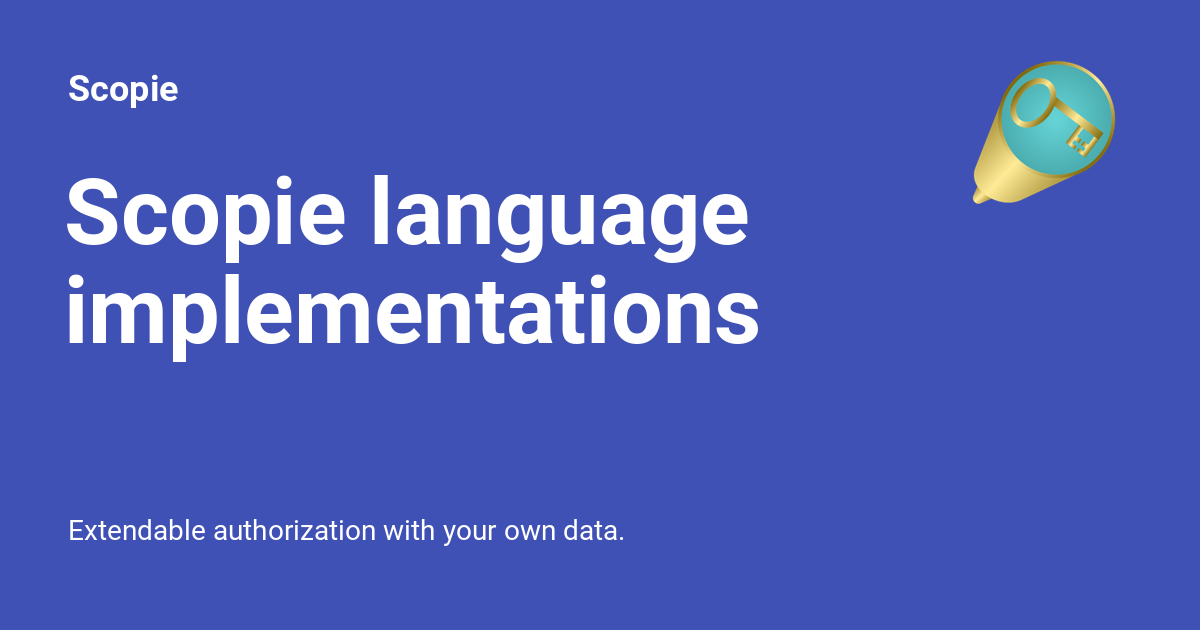
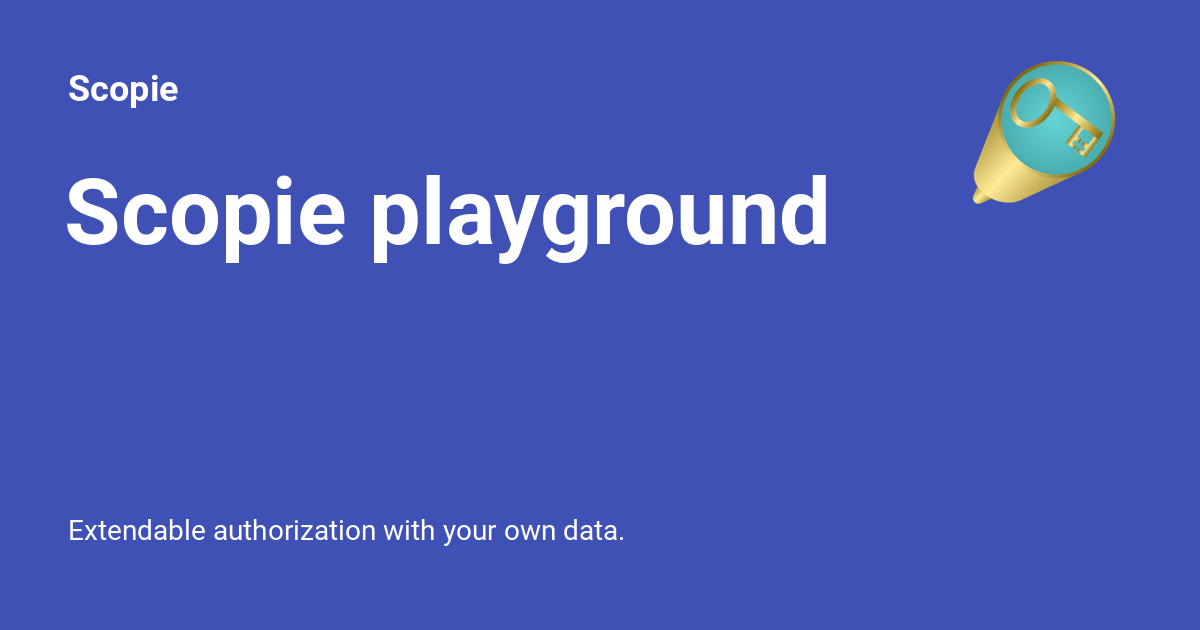
deploy: d7f61a4c39833dae15412884ce5f9bbb6dc2ca31

Changed region(s): [[0.0308, 0.4222, 0.6475, 0.573], [0.3083, 0.2714, 0.7092, 0.4222]]

diff --git a/specification/functions/index.html b/specification/functions/index.html
@@ -572,9 +572,9 @@
 </li>
       
         <li class="md-nav__item">
-  <a href="#validate-scope" class="md-nav__link">
+  <a href="#validate-scopes" class="md-nav__link">
     <span class="md-ellipsis">
-      Validate Scope
+      Validate Scopes
     </span>
   </a>
   
@@ -824,9 +824,9 @@
 </li>
       
         <li class="md-nav__item">
-  <a href="#validate-scope" class="md-nav__link">
+  <a href="#validate-scopes" class="md-nav__link">
     <span class="md-ellipsis">
-      Validate Scope
+      Validate Scopes
     </span>
   </a>
   
@@ -873,14 +873,14 @@ Depending on the language, we would also return an error, throw or raise an exce
 </span><span id="__span-0-13"><a id="__codelineno-0-13" name="__codelineno-0-13" href="#__codelineno-0-13"></a>    <span class="n">variables</span> <span class="nb">dict</span><span class="p">[</span><span class="n">string</span><span class="p">,</span> <span class="n">string</span><span class="p">],</span>
 </span><span id="__span-0-14"><a id="__codelineno-0-14" name="__codelineno-0-14" href="#__codelineno-0-14"></a><span class="p">)</span> <span class="o">-&gt;</span> <span class="nb">bool</span> <span class="ow">and</span> <span class="n">error</span>
 </span></code></pre></div>
-<h2 id="validate-scope">Validate Scope</h2>
-<p>Checks whether or not the given scope or rule is valid given the
+<h2 id="validate-scopes">Validate Scopes</h2>
+<p>Checks whether or not the given scopes or rules are valid given the
 requirements outlined in the specification.
 Depending on the language, this could return a boolean and throw an error, return
 an error or other language standard.</p>
-<div class="language-py highlight"><span class="filename">Validate Scope</span><pre><span></span><code><span id="__span-1-1"><a id="__codelineno-1-1" name="__codelineno-1-1" href="#__codelineno-1-1"></a><span class="n">validate_scope</span><span class="p">(</span>
+<div class="language-py highlight"><span class="filename">Validate Scopes</span><pre><span></span><code><span id="__span-1-1"><a id="__codelineno-1-1" name="__codelineno-1-1" href="#__codelineno-1-1"></a><span class="n">validate_scopes</span><span class="p">(</span>
 </span><span id="__span-1-2"><a id="__codelineno-1-2" name="__codelineno-1-2" href="#__codelineno-1-2"></a>    <span class="c1"># Given scope or rule to validate.</span>
-</span><span id="__span-1-3"><a id="__codelineno-1-3" name="__codelineno-1-3" href="#__codelineno-1-3"></a>    <span class="n">scopeOrRule</span> <span class="n">string</span><span class="p">,</span>
+</span><span id="__span-1-3"><a id="__codelineno-1-3" name="__codelineno-1-3" href="#__codelineno-1-3"></a>    <span class="n">scopeOrRules</span> <span class="p">[]</span><span class="n">string</span><span class="p">,</span>
 </span><span id="__span-1-4"><a id="__codelineno-1-4" name="__codelineno-1-4" href="#__codelineno-1-4"></a><span class="p">)</span> <span class="n">error</span>
 </span></code></pre></div>
 

diff --git a/specification/errors/index.html b/specification/errors/index.html
@@ -646,6 +646,15 @@
   
 </li>
       
+        <li class="md-nav__item">
+  <a href="#107" class="md-nav__link">
+    <span class="md-ellipsis">
+      107
+    </span>
+  </a>
+  
+</li>
+      
     </ul>
   
 </nav>
@@ -922,6 +931,15 @@
   
 </li>
       
+        <li class="md-nav__item">
+  <a href="#107" class="md-nav__link">
+    <span class="md-ellipsis">
+      107
+    </span>
+  </a>
+  
+</li>
+      
     </ul>
   
 </nav>
@@ -1041,6 +1059,17 @@ We return an error here instead to hopefully catch this instead of silently deny
 <div class="language-text highlight"><span class="filename">Invalid</span><pre><span></span><code><span id="__span-22-1"><a id="__codelineno-22-1" name="__codelineno-22-1" href="#__codelineno-22-1"></a># empty
 </span></code></pre></div>
 <div class="language-text highlight"><span class="filename">Message format</span><pre><span></span><code><span id="__span-23-1"><a id="__codelineno-23-1" name="__codelineno-23-1" href="#__codelineno-23-1"></a>scope was empty
+</span></code></pre></div>
+<h2 id="107">107</h2>
+<p>Inconsistent Array</p>
+<p>Arrays of scopes and arrays of rules are expected to all be one type.</p>
+<div class="language-text highlight"><span class="filename">Valid</span><pre><span></span><code><span id="__span-24-1"><a id="__codelineno-24-1" name="__codelineno-24-1" href="#__codelineno-24-1"></a>accounts/create
+</span><span id="__span-24-2"><a id="__codelineno-24-2" name="__codelineno-24-2" href="#__codelineno-24-2"></a>blog/read
+</span></code></pre></div>
+<div class="language-text highlight"><span class="filename">Invalid</span><pre><span></span><code><span id="__span-25-1"><a id="__codelineno-25-1" name="__codelineno-25-1" href="#__codelineno-25-1"></a>accounts/create
+</span><span id="__span-25-2"><a id="__codelineno-25-2" name="__codelineno-25-2" href="#__codelineno-25-2"></a>allow/blog/read
+</span></code></pre></div>
+<div class="language-text highlight"><span class="filename">Message format</span><pre><span></span><code><span id="__span-26-1"><a id="__codelineno-26-1" name="__codelineno-26-1" href="#__codelineno-26-1"></a>inconsistent array of scopes and rules
 </span></code></pre></div>
 
 

diff --git a/playground/index.html b/playground/index.html
@@ -26,7 +26,7 @@
     
     
       
-        <title>Scopie language implementations - Scopie</title>
+        <title>Scopie playground - Scopie</title>
       
     
     
@@ -61,7 +61,7 @@
       
         <meta  property="og:type"  content="website" >
       
-        <meta  property="og:title"  content="Scopie language implementations - Scopie" >
+        <meta  property="og:title"  content="Scopie playground - Scopie" >
       
         <meta  property="og:description"  content="Extendable authorization with your own data." >
       
@@ -77,7 +77,7 @@
       
         <meta  name="twitter:card"  content="summary_large_image" >
       
-        <meta  name="twitter:title"  content="Scopie language implementations - Scopie" >
+        <meta  name="twitter:title"  content="Scopie playground - Scopie" >
       
         <meta  name="twitter:description"  content="Extendable authorization with your own data." >
       
@@ -137,7 +137,7 @@
         <div class="md-header__topic" data-md-component="header-topic">
           <span class="md-ellipsis">
             
-              Scopie language implementations
+              Scopie playground
             
           </span>
         </div>

diff --git a/specification/terms/index.html b/specification/terms/index.html
@@ -577,6 +577,15 @@
   
 </li>
       
+        <li class="md-nav__item">
+  <a href="#keywords" class="md-nav__link">
+    <span class="md-ellipsis">
+      Keywords
+    </span>
+  </a>
+  
+</li>
+      
     </ul>
   
 </nav>
@@ -868,6 +877,15 @@
   
 </li>
       
+        <li class="md-nav__item">
+  <a href="#keywords" class="md-nav__link">
+    <span class="md-ellipsis">
+      Keywords
+    </span>
+  </a>
+  
+</li>
+      
     </ul>
   
 </nav>
@@ -919,6 +937,13 @@ Only literal values are allowed in rules.</p>
 <div class="language-text highlight"><span class="filename">Rule examples</span><pre><span></span><code><span id="__span-2-1"><a id="__codelineno-2-1" name="__codelineno-2-1" href="#__codelineno-2-1"></a>allow/bucket/images/upload
 </span><span id="__span-2-2"><a id="__codelineno-2-2" name="__codelineno-2-2" href="#__codelineno-2-2"></a>deny/iam_accounts/edit
 </span></code></pre></div>
+<h2 id="keywords">Keywords</h2>
+<p>They may not be explicity checked but it is important not to use any scopie keywords when
+defining scopes and rules as they may have unintended side effects.</p>
+<ul>
+<li>allow</li>
+<li>deny</li>
+</ul>
 
 
 
